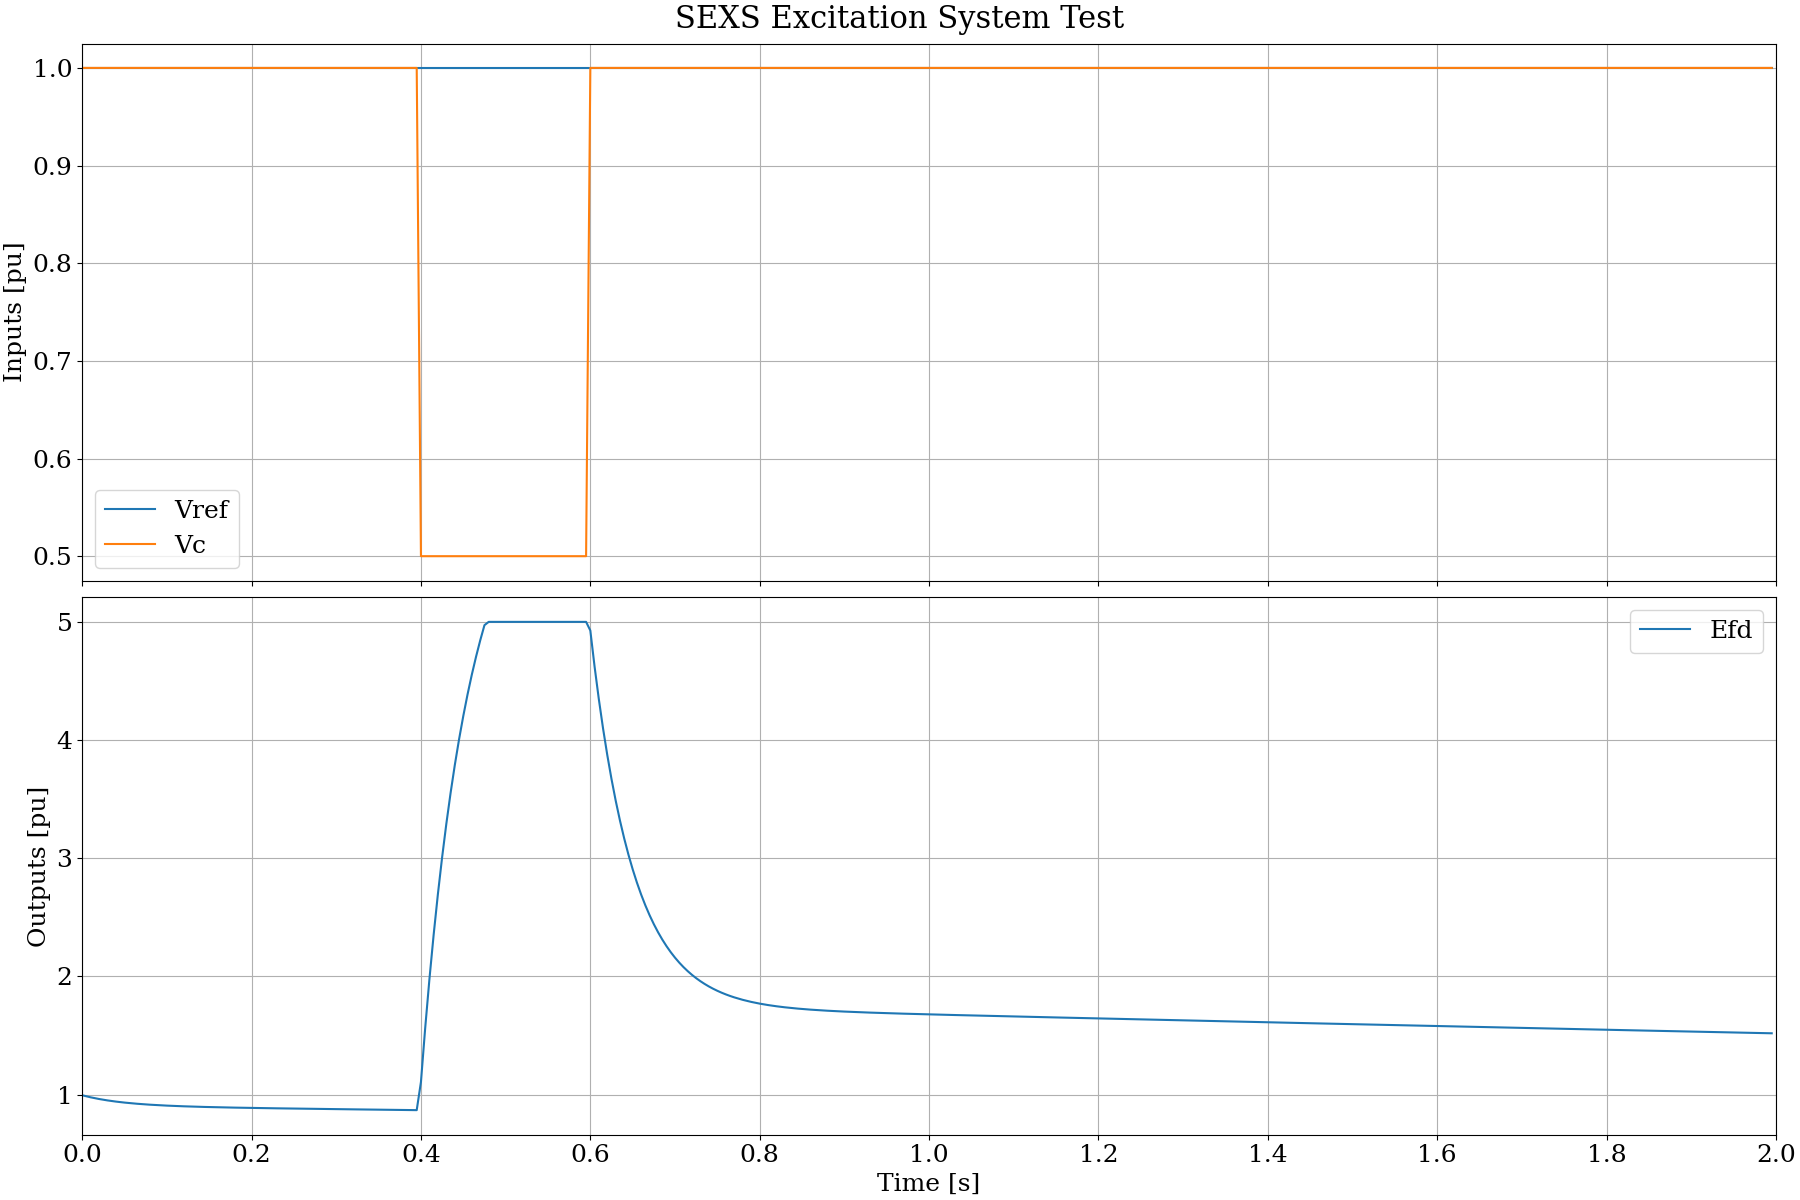
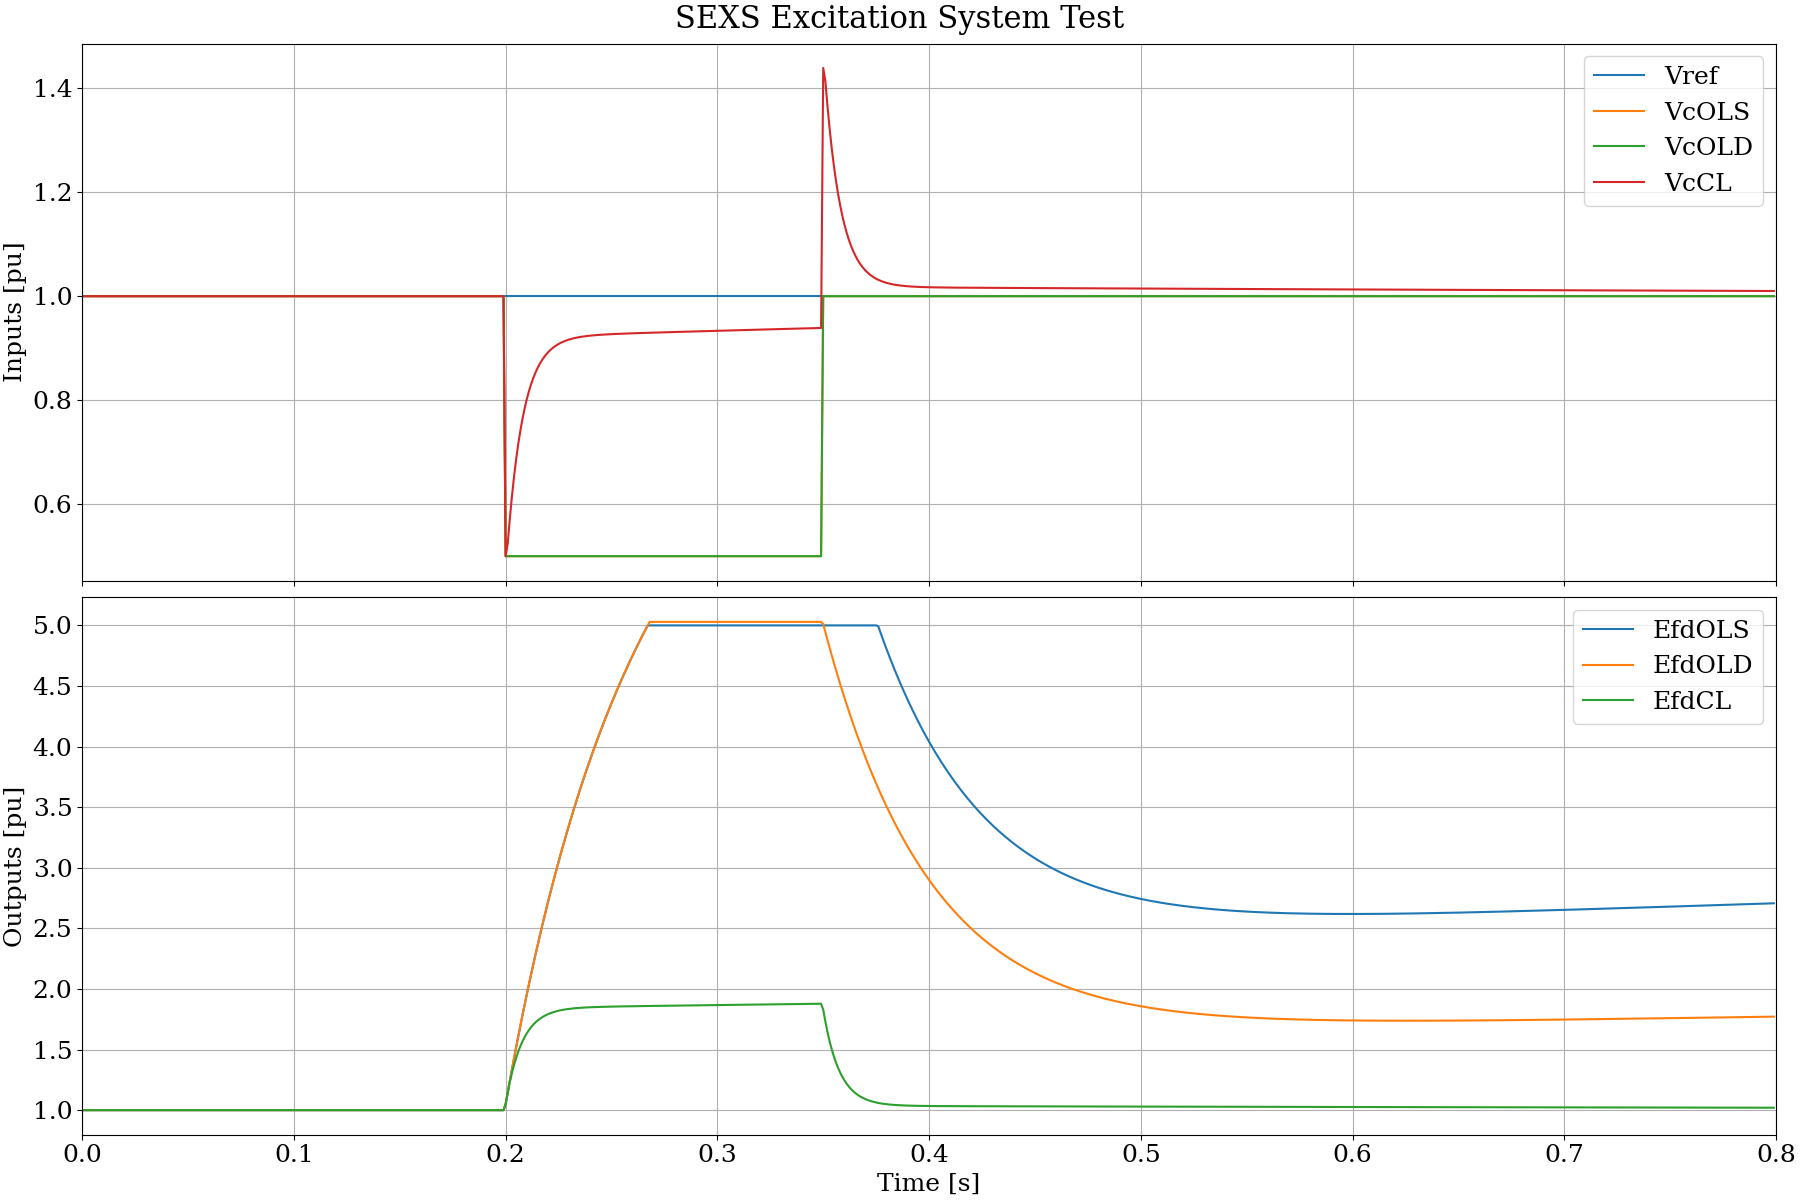
tested and documented the new SEXS example

diff --git a/dll/sexs/sexs.c b/dll/sexs/sexs.c
@@ -180,13 +180,13 @@ IEEE_Cigre_DLLInterface_Model_Info Model_Info = {
   .ModelVersion = "1.0.0.0",
   .ModelDescription = "The CIM ExcSEXS, a legacy static excitation system model",
   .GeneralInformation = "Prohibited by NERC",
-  .ModelCreated = "August 14, 2026",
+  .ModelCreated = "September 3, 2026",
   .ModelCreator = "temc",
-  .ModelLastModifiedDate = "August 14, 2026",
+  .ModelLastModifiedDate = "September 3, 2026",
   .ModelLastModifiedBy = "temc",
   .ModelModifiedComment = "",
   .ModelModifiedHistory = "",
-  .FixedStepBaseSampleTime = 0.005,
+  .FixedStepBaseSampleTime = 0.001,
 
   // Inputs
   .NumInputPorts = 3,
@@ -348,10 +348,9 @@ __declspec(dllexport) int32_T __cdecl Model_Initialize(IEEE_Cigre_DLLInterface_I
   return ret;
 };
 
-// Pure integrator with gain, anti-windup and static clipping.
+// Pure integrator with gain and optional anti-windup clipping.
 // The two_states are y and u from the previous step, updated within this function.
-double integrator (double k, double dt, double u, double *two_states, 
-                   double aw_min, double aw_max, double clip_min, double clip_max) {
+double integrator (double k, double dt, double u, double *two_states, double aw_min, double aw_max) {
   double y = two_states[0];
   double dy = 0.5*k*dt*(u+two_states[1]);
   // anti-windup clipping by conditional integration
@@ -360,74 +359,77 @@ double integrator (double k, double dt, double u, double *two_states,
   } else if (dy < 0.0 && y >= aw_min) {
     y += dy;
   }
-  // static clipping
-  y = fmin (y, clip_max);
-  y = fmax (y, clip_min);
   // update states for the next step
   two_states[0] = y;
   two_states[1] = u;
   return y;
 }
 
-// Proportional-Integral control block with optional anti-windup and static clipping
+// Proportional-Integral control block with optional anti-windup clipping from external flag
 // The two_states are integrator (Ki/s) y and total u from the previous step, updated within this function.
-double PIblock (double kp, double ki, double dt, double u, double *two_states,
-                double aw_min, double aw_max, double clip_min, double clip_max) {
+double PIblock (double kp, double ki, double dt, double u, double *two_states, int aw_flag) {
   double yp = kp*u; // the proportional term
-  // check for windup using the previous integrator state
-  double yi = two_states[0];
-  double dyi = 0.5*ki*dt*(u+two_states[1]);
-  double ytest = yp + yi + dyi;
-  double y;
-  if (ytest > aw_max && dyi > 0.0) {
-    y = aw_max;
-    yi = y - yp;
-  } else if (ytest < aw_min && dyi < 0.0) {
-    y = aw_min;
-    yi = y + yp;
-  } else {
-    y = ytest;
-    yi += dyi;
+  double dyi = 0.5*ki*dt*(u+two_states[1]); // the candidate change in integrator state
+  double yi; // the integral term
+  // check whether the integrator should be frozen
+  if (aw_flag > 0 && dyi > 0.0) {
+    //printf("PI AW setting %0.5g to 0\n", dyi);
+    dyi = 0.0;
+  } else if (aw_flag < 0 && dyi < 0.0) {
+    //printf("PI AW setting %0.5g to 0\n", dyi);
+    dyi = 0.0;
   }
-  // static clipping
-  y = fmin (y, clip_max);
-  y = fmax (y, clip_min);
+  yi = two_states[0] + dyi;
   two_states[0] = yi;
   two_states[1] = u;
-  return y;
+  return yp+yi;
 }
 
-// First-order lag block with gain and static clipping.
+// First-order lag block with gain and optional dynamic clipping from an external flag.
 // The two_states are y and u from the previous step, updated within this function.
-double realpole (double k, double tau, double dt, double u, double *two_states, 
-                 double clip_min, double clip_max) {
+double realpole (double k, double tau, double dt, double u, double *two_states, int aw_flag) {
   double ktau = 0.5*dt/tau;
   double y = (two_states[0]*(1.0-ktau) + (u+two_states[1])*k*ktau) / (1.0+ktau);
-  // static clipping
-  y = fmin (y, clip_max);
-  y = fmax (y, clip_min);
+  // check for dynamic limiting
+  if (aw_flag > 0 && (y-two_states[0])>0.0) {
+    y = two_states[0];
+    //printf("Real Pole setting +dy to 0\n");
+  } else if (aw_flag < 0 && (y-two_states[0])<0.0) {
+    y = two_states[0];
+    //printf("Real Pole setting -dy to 0\n");
+  }
   // update states for the next step
   two_states[0] = y;
   two_states[1] = u;
   return y;
 }
 
-// First-order lead-lag block with gain and static clipping.
+// First-order lead-lag block with gain and optional dynamic clipping from an external flag.
 // The two_states are y and u from the previous step, updated within this function.
-double leadlag (double k, double tau1, double tau2, double dt, double u, double *two_states,
-                double clip_min, double clip_max) {
+double leadlag (double k, double tau1, double tau2, double dt, double u, double *two_states, int aw_flag) {
   double y, ktau2;
   if (tau1 < 1.0e-8) {
-    return realpole (k, tau2, dt, u, two_states, clip_min, clip_max);
+    return realpole (k, tau2, dt, u, two_states, aw_flag);
   }
   ktau2 = 0.5*dt/tau2;
   y = (two_states[0] + (u-two_states[1])*k*tau1/tau2 + ktau2*(k*u+k*two_states[1]-two_states[0])) / (1.0 + ktau2);
-  // static clipping
-  y = fmin (y, clip_max);
-  y = fmax (y, clip_min);
+  // check for dynamic limiting
+  if (aw_flag > 0 && (y-two_states[0])>0.0) {
+    y = two_states[0];
+    //printf("Lead/Lag setting +dy to 0\n");
+  } else if (aw_flag < 0 && (y-two_states[0])<0.0) {
+    y = two_states[0];
+    //printf("Lead/Lag setting -dy to 0\n");
+  }
   // update states for the next step
   two_states[0] = y;
   two_states[1] = u;
+  return y;
+}
+
+double static_limiter (double y, double ymin, double ymax) {
+  y = fmin (y, ymax);
+  y = fmax (y, ymin);
   return y;
 }
 
@@ -445,23 +447,25 @@ __declspec(dllexport) int32_T __cdecl Model_Outputs(IEEE_Cigre_DLLInterface_Inst
   MyModelParameters* parameters = (MyModelParameters*)instance->Parameters;
   double *states = instance->DoubleStates;
   // local variables
-  double Verr, y1, y2;
+  double Verr, y1, y2, aw_flag = 0;
+
+  // if the total output was saturated against an anti-windup limit, then stop the integrators from further saturation
+  if (outputs->Efd >= parameters->Emax) {
+    aw_flag = 1;
+  } else if (outputs->Efd <= parameters->Emin) {
+    aw_flag = -1;
+  }
 
   // Voltage summation loop
   Verr = inputs->Vref + inputs->Vs - inputs->Vc + states[6];
-  y1 = leadlag (1.0, parameters->TaTb*parameters->Tb, parameters->Tb, delt, Verr, &states[0], -1.0e8, 1.0e8);
+  y1 = leadlag (1.0, parameters->TaTb*parameters->Tb, parameters->Tb, delt, Verr, &states[0], aw_flag);
   if (parameters->Tc > 0.0) {
-    // apply anti-windup limit on the PI block
-//    y2 = PIblock (parameters->Kc, parameters->Kc/parameters->Tc, delt, y1, &states[2], parameters->Emin, parameters->Emax, -1.0e8, 1.0e8);
-    y2 = PIblock (parameters->Kc, parameters->Kc/parameters->Tc, delt, y1, &states[2], -1.0e8, 1.0e8, -1.0e8, 1.0e8);
+    y2 = PIblock (parameters->Kc, parameters->Kc/parameters->Tc, delt, y1, &states[2], aw_flag);
   } else {
     y2 = y1;
   }
-  // apply static limit on the output low-pass block
-  outputs->Efd = realpole (parameters->K, parameters->Te, delt, y2, &states[4], -1.0e8, 1.0e8);
-  // static output limiting
-  outputs->Efd = fmin (outputs->Efd, parameters->EfdMax);
-  outputs->Efd = fmax (outputs->Efd, parameters->EfdMin);
+  outputs->Efd = realpole (parameters->K, parameters->Te, delt, y2, &states[4], aw_flag);
+  outputs->Efd = static_limiter (outputs->Efd, parameters->EfdMin, parameters->EfdMax);
 
   // printf("Verr=%0.5g, y1=%0.5g, y2=%0.5g, Efd=%0.5g\n", Verr, y1, y2, outputs->Efd);
 

diff --git a/dll/sexs/test_sexs.c b/dll/sexs/test_sexs.c
@@ -12,34 +12,11 @@
 
 #include "IEEE_Cigre_DLLWrapper.h"
  
-//void initialize_outputs (IEEE_Cigre_DLLInterface_Instance* pModel, ArrayMap *pMap, int nPorts)
-//{
-//  double Efd = 1.0;
-//  char *pData = (char *) pModel->ExternalOutputs;
-//  memcpy (pData + pMap[0].offset, &Efd, pMap[0].size);
-//}
-//
-//void update_inputs (IEEE_Cigre_DLLInterface_Instance* pModel, ArrayMap *pMap, double t, int nPorts)
-//{
-//  double Vref = 1.0;
-//  double Vc = 1.0;
-//  double Vs = 0.0;
-////  if (t >= 0.1) {
-////    Vref = 1.01;
-////  }
-//  if (t >= 0.2 && t <= 0.35) { // fault
-//    Vc = 0.5;
-//  }
-//  char *pData = (char *) pModel->ExternalInputs;
-//  memcpy (pData + pMap[0].offset, &Vref, pMap[0].size);
-//  memcpy (pData + pMap[1].offset, &Vc, pMap[1].size);
-//  memcpy (pData + pMap[2].offset, &Vs, pMap[2].size);
-//}
-
 int main( void ) 
 {
   int idxTc, idxKc, idxEmin, idxEmax, idxEfdMin, idxEfdMax, idxVref, idxVs, idxVc, idxEfd;
-  double t, Vref = 1.0, Vs = 0.0, VcOLD, VcOLS, VcCL, EfdOLD = 1.0, EfdOLS = 1.0, EfdCL = 1.0;
+  double t, Vref = 1.0, Vsrc = 1.0, Vs = 0.0, VcOLD, VcOLS, VcCL, EfdOLD = 1.0, EfdOLS = 1.0, EfdCL = 1.0;
+  double KC = 1.0, TC = 1.0;
   show_struct_alignment_requirements ();
 
   // create three instances of the DLL for testing
@@ -52,8 +29,8 @@ int main( void )
   idxTc = find_dll_parameter_index (pWrap->pInfo, "Tc");
   idxEmin = find_dll_parameter_index (pWrap->pInfo, "Emin");
   idxEmax = find_dll_parameter_index (pWrap->pInfo, "Emax");
-  idxEfdMin = find_dll_parameter_index (pWrap->pInfo, "EfdEmin");
-  idxEfdMax = find_dll_parameter_index (pWrap->pInfo, "EfdEmin");
+  idxEfdMin = find_dll_parameter_index (pWrap->pInfo, "EfdMin");
+  idxEfdMax = find_dll_parameter_index (pWrap->pInfo, "EfdMax");
   // input signal indexes from the wrapper
   idxVref = find_dll_signal_index (pWrap->pInfo->InputPortsInfo, pWrap->pInfo->NumInputPorts, "Vref");
   idxVs = find_dll_signal_index (pWrap->pInfo->InputPortsInfo, pWrap->pInfo->NumInputPorts, "Vs");
@@ -62,8 +39,16 @@ int main( void )
   idxEfd = find_dll_signal_index (pWrap->pInfo->OutputPortsInfo, pWrap->pInfo->NumOutputPorts, "Efd");
 
   // configure the different tests
-  set_dll_real_value ((char *) pMdlOLD->Parameters, pWrap->pParameterMap, idxKc, 1.0);
-  set_dll_real_value ((char *) pMdlOLD->Parameters, pWrap->pParameterMap, idxTc, 1.0);
+  set_dll_real_value ((char *) pMdlOLD->Parameters, pWrap->pParameterMap, idxKc, KC); // all will use PI block
+  set_dll_real_value ((char *) pMdlOLD->Parameters, pWrap->pParameterMap, idxTc, TC);
+  set_dll_real_value ((char *) pMdlOLS->Parameters, pWrap->pParameterMap, idxKc, KC);
+  set_dll_real_value ((char *) pMdlOLS->Parameters, pWrap->pParameterMap, idxTc, TC);
+  set_dll_real_value ((char *) pMdlCL->Parameters, pWrap->pParameterMap, idxKc, KC);
+  set_dll_real_value ((char *) pMdlCL->Parameters, pWrap->pParameterMap, idxTc, TC);
+  set_dll_real_value ((char *) pMdlOLS->Parameters, pWrap->pParameterMap, idxEmax, 1.0e8); // disable the AW limits on OLS
+  set_dll_real_value ((char *) pMdlOLS->Parameters, pWrap->pParameterMap, idxEmin, -1.0e8);
+  set_dll_real_value ((char *) pMdlOLD->Parameters, pWrap->pParameterMap, idxEfdMax, 1.0e8); // disable the static limits on OLD
+  set_dll_real_value ((char *) pMdlOLD->Parameters, pWrap->pParameterMap, idxEfdMin, -1.0e8);
   // set the constant inputs
   set_dll_real_value ((char *) pMdlOLD->ExternalInputs, pWrap->pInputMap, idxVref, Vref);
   set_dll_real_value ((char *) pMdlOLS->ExternalInputs, pWrap->pInputMap, idxVref, Vref);
@@ -96,6 +81,10 @@ int main( void )
     printf("calling Initialize\n");
     pWrap->Model_Initialize (pMdlOLD);
     check_messages ("Model_Initialize", pMdlOLD);
+    pWrap->Model_Initialize (pMdlOLS);
+    check_messages ("Model_Initialize", pMdlOLS);
+    pWrap->Model_Initialize (pMdlCL);
+    check_messages ("Model_Initialize", pMdlCL);
 
     // time step loop, matching the DLL's desired time step
     double dt = pWrap->pInfo->FixedStepBaseSampleTime;
@@ -108,9 +97,11 @@ int main( void )
     while (t <= tstop) {
       // update the inputs for this next DLL step
       if (t >= 0.2 && t <= 0.35) {
-        VcOLD = VcOLS = VcCL = 0.5;
+        VcOLD = VcOLS = 0.5;
+        VcCL = 0.5 * EfdCL;
       } else {
-        VcOLD = VcOLS = VcCL = 1.0;
+        VcOLD = VcOLS = 1.0;
+        VcCL = 0.5 * (Vsrc + EfdCL);
       }
       pMdlOLD->Time = t;
       pMdlOLS->Time = t;

diff --git a/dll/wrapper/IEEE_Cigre_DLLWrapper.c b/dll/wrapper/IEEE_Cigre_DLLWrapper.c
@@ -68,6 +68,7 @@ int find_dll_signal_index (const IEEE_Cigre_DLLInterface_Signal *pSignals, int c
       return i;
     }
   }
+  printf("*** signal index for %s not found\n", name);
   return -1;
 }
 
@@ -78,6 +79,7 @@ int find_dll_parameter_index (const IEEE_Cigre_DLLInterface_Model_Info *pInfo, c
       return i;
     }
   }
+  printf("*** parameter index for %s not found\n", name);
   return -1;
 }
 
@@ -493,9 +495,9 @@ Wrapped_IEEE_Cigre_DLL * CreateFirstDLLModel (char *dll_name)
     // create a model instance, initialized to default values
     pWrap->pModel = CreateModelInstance (pWrap->pInfo, &pWrap->pParameterMap, &pWrap->pInputMap, &pWrap->pOutputMap);
     // keep track of all wrapped instances
-    pWrap->max_instances = 2;
+    pWrap->max_instances = 2;  // start with 2, so the SEXS test case verifies that the realloc mechanism works
     pWrap->num_instances = 0;
-    pWrap->pAllModels = malloc(pWrap->max_instances * sizeof(IEEE_Cigre_DLLInterface_Instance *));
+    pWrap->pAllModels = calloc(pWrap->max_instances, sizeof(IEEE_Cigre_DLLInterface_Instance *));
     pWrap->pAllModels[pWrap->num_instances] = pWrap->pModel;
     pWrap->num_instances += 1;
   } else {
@@ -513,8 +515,7 @@ IEEE_Cigre_DLLInterface_Instance * AddModelInstance (Wrapped_IEEE_Cigre_DLL *pWr
   if (pWrap->num_instances >= pWrap->max_instances) {
     pWrap->max_instances *= 2;
     IEEE_Cigre_DLLInterface_Instance **pNew = realloc (pWrap->pAllModels, pWrap->max_instances * sizeof(IEEE_Cigre_DLLInterface_Instance *));
-    free (pWrap->pAllModels);
-    pWrap->pAllModels = pNew;
+    pWrap->pAllModels = pNew; // note: realloc frees original memory if needed so don't call it explicitly
   }
   pWrap->pAllModels[pWrap->num_instances] = pModel;
   pWrap->num_instances += 1;

diff --git a/docs/DLLExamples.rst b/docs/DLLExamples.rst
@@ -37,11 +37,10 @@ after compiling and linking the DLLs. An ATP license is required for access to t
 SEXS
 ----
 
-.. note::
-    To be completed
-
 This is a legacy static excitation system model, prohibited by NERC for use in
-new interconnection studies, but still useful in demonstrations.
+new interconnection studies, but still useful in demonstrations. The source
+code illustrates how the DLL wrapper library of EMTHub can manage multiple instances
+of the same API model.
 
 Build Instructions - Windows
 ^^^^^^^^^^^^^^^^^^^^^^^^^^^^
@@ -81,8 +80,21 @@ File Directory
 Results
 ^^^^^^^
 
-The following result shows a drop in terminal voltage at 2.0 s to 0.5 pu. The *EFD*
-output responds as limited by the overexcitation limiter value, *VOEL*.
+This version of the excitation system uses a PI block, defined by parameters *Kc* and *Tc*, before the output
+real pole. Static limiting can be applied to the final output, defined by *EfdMax* and *EfdMin*. However,
+static limits allow the internal integrator states to move further into saturation, which delays post-fault
+recovery. Therefore, dynamic limiting can be applied to the output real pole, defined by *Emax* and *Emin*. 
+Sometimes, these are called anti-windup limits. When these are exceeded, and when inputs would then drive
+the final output further into saturation, all of the control block integrator states are frozen until
+the sign of the error reverses. This is a simple implementation of dynamic limiting.
+
+The following rresult compares three cases in the same run. There is no supplemental input, *Vs*, from
+a stabilizer or over/under excitation limiter. The terminal voltage, *Vc*, drops to 0.5 pu from 0.2s to 0.35s. 
+The reference voltage, *Vref*, stays constant at 1.0 pu. The three cases are:
+
+- *OLS* for open-loop with static limits. The output *EfdOLS* clips at 5, but does not begin recovery until about 0.375s. This is later than the fault clearing at 0.35s because internal integration states have saturated.
+- *OLD* for open-loop with dynamic limits. The output *EfdOLD* overshoots the limit at 5, due to the 1ms model time step. This might be reduced with a better anti-windup implementation. *EfdOLD* begins to recover immediately upon recovery of *VcOLD*.
+- *CL* for closed-loop, with a very simple feedback mechanism to represent an external grid response. The output *EfdCL* does not reach its limit, and is also able to control *VcCL* to some extent. There is an overshoot of *VcCL* after the fault clears. Furthermore, the steady-state error in *EfdCL* gradually approaches zero. In the two open-loop cases, the final steady-state error grows because the system has no means of correcting it.
 
 .. image:: assets/test_SEXS.png
 
